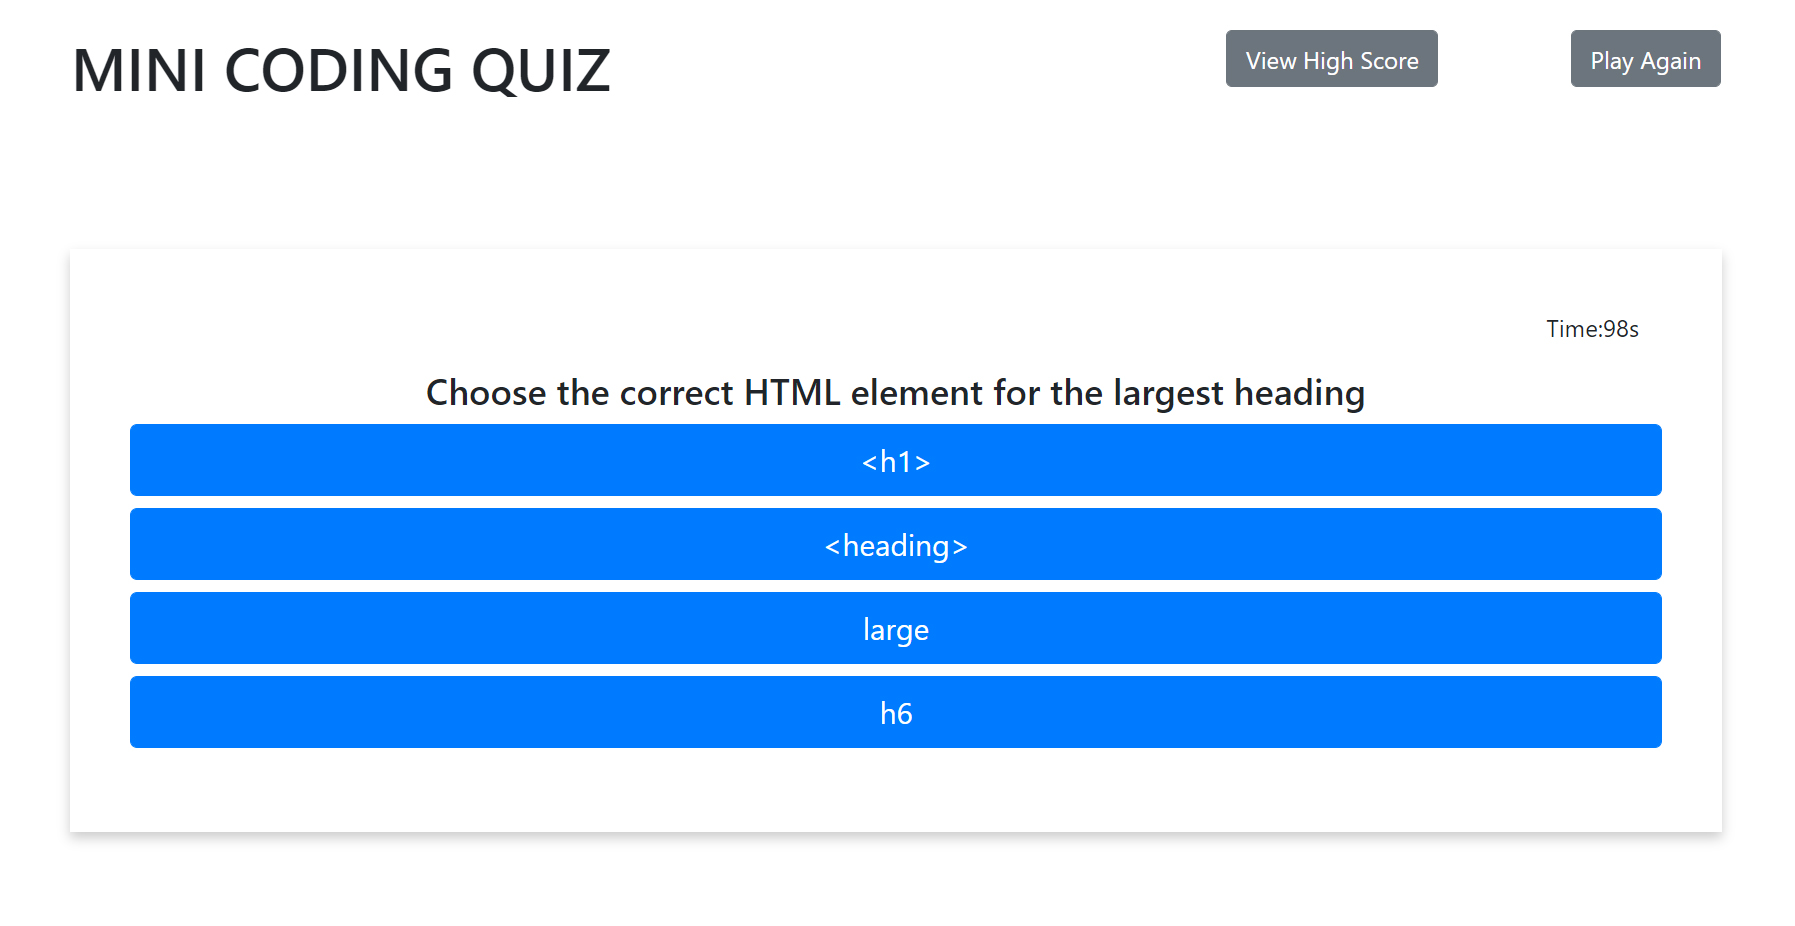
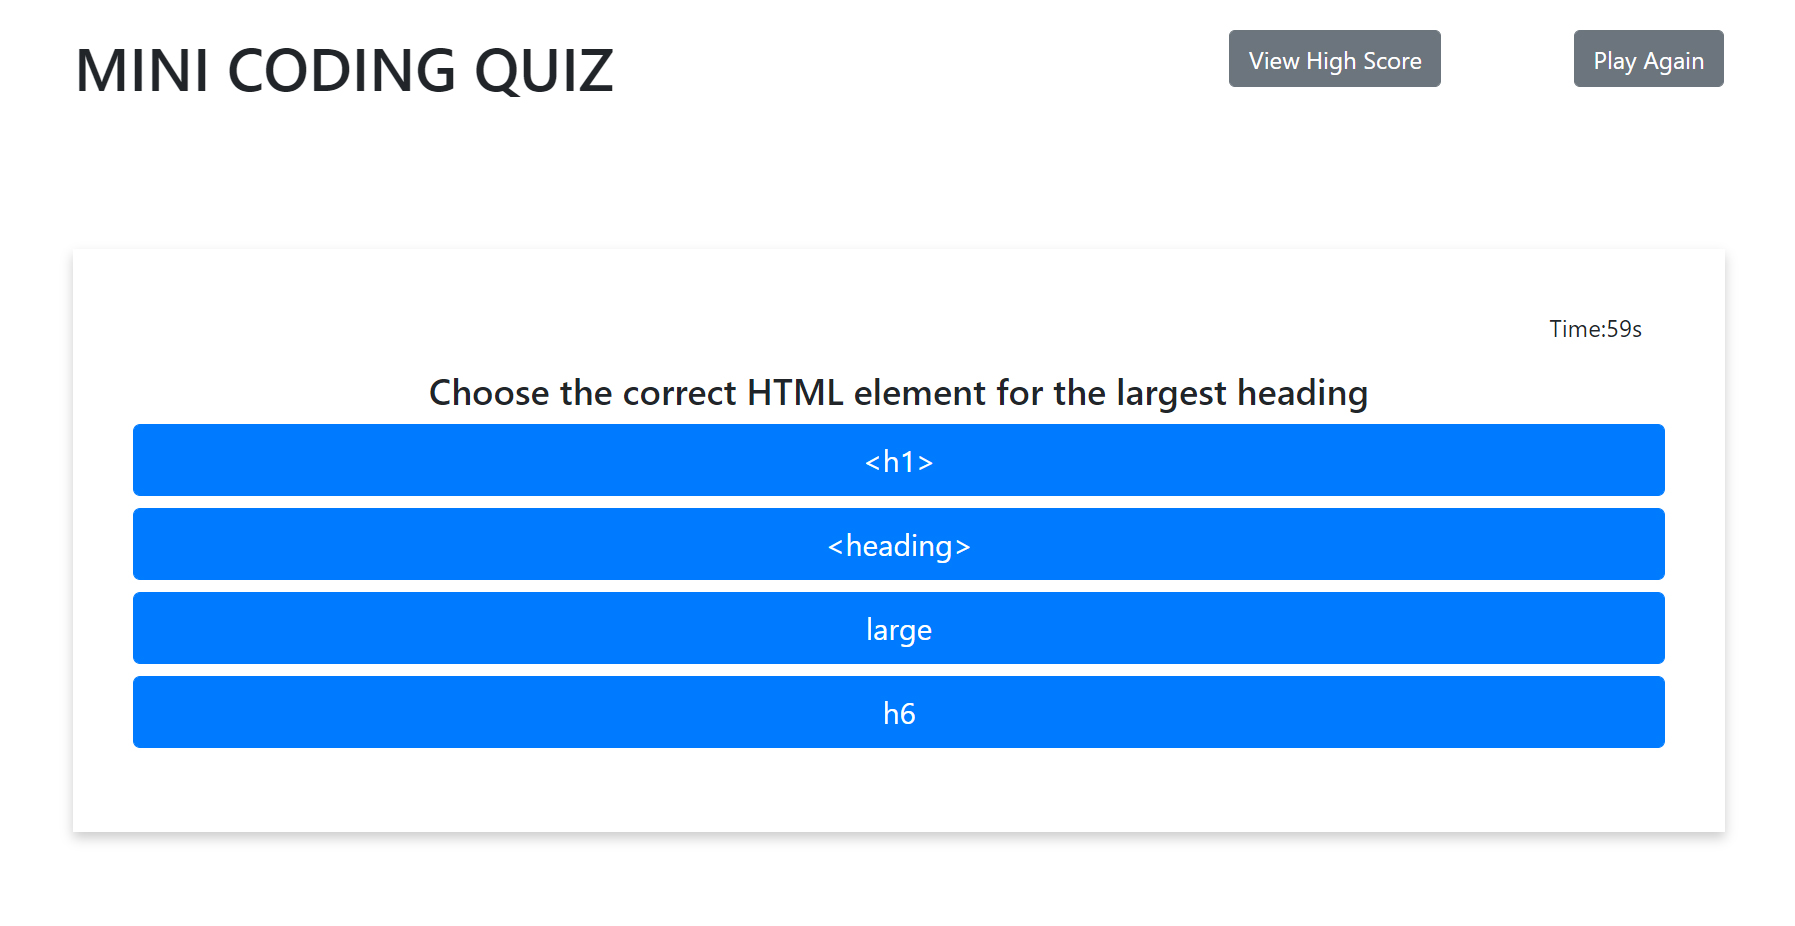
Modified README and changed time from 100s to 60s

diff --git a/index.html b/index.html
@@ -47,7 +47,7 @@
             <section id="intro">
                 <div class="card-body">
                     <h3 class="d-flex justify-content-center text-center">This mini quiz is designed to test your
-                        knowledge of HTML, CSS and Javascript. You have 100 seconds to answer the
+                        knowledge of HTML, CSS and Javascript. You have 60 seconds to answer the
                         following questions. You'll gain 5 seconds for each right answer, while each wrong answer will cost you 10 seconds.</h3>
                     <br></br>
                     <h3 class="d-flex justify-content-center text-center">Good luck and have fun!</h3>
@@ -62,7 +62,7 @@
                 <div class="card-body">
                     <!-- Timer -->
                     <div class="col-12">
-                        <p class="d-flex justify-content-end time">Time:100s</p>
+                        <p class="d-flex justify-content-end time">Time: 60s</p>
                     </div>
 
                     <h4 id="question">I'm a question</h4>

diff --git a/script.js b/script.js
@@ -31,7 +31,7 @@ var viewScrBtn = document.getElementById("view-scores");
 
 // time and score
 let timeEl = document.querySelector("p.time");
-let timeleft = 100;
+let timeleft = 60;
 let scoreEl = document.querySelector("#score");
 displayScores();
 
@@ -202,7 +202,7 @@ for (var i=0; i<goBackBtn.length; i++){
         highscoresEl.style.display = "none";
         questionsEl.style.display = "none";
         introEl.style.display = "block";
-        timeleft = 100;
+        timeleft = 60;
         timeEl.textContent = `Time:${timeleft}s`;
     });
 }

diff --git a/README.md b/README.md
@@ -4,7 +4,7 @@ Week 4 Homework: develop a time quiz
 ## Develop a mini timed quiz that:
 ```
 WHEN I click the start button
-THEN a timer starts and I am presented with a question
+THEN a timer starts at 60 seconds and I am presented with a question
 WHEN I answer a question
 THEN I am presented with another question
 WHEN I answer a question incorrectly
